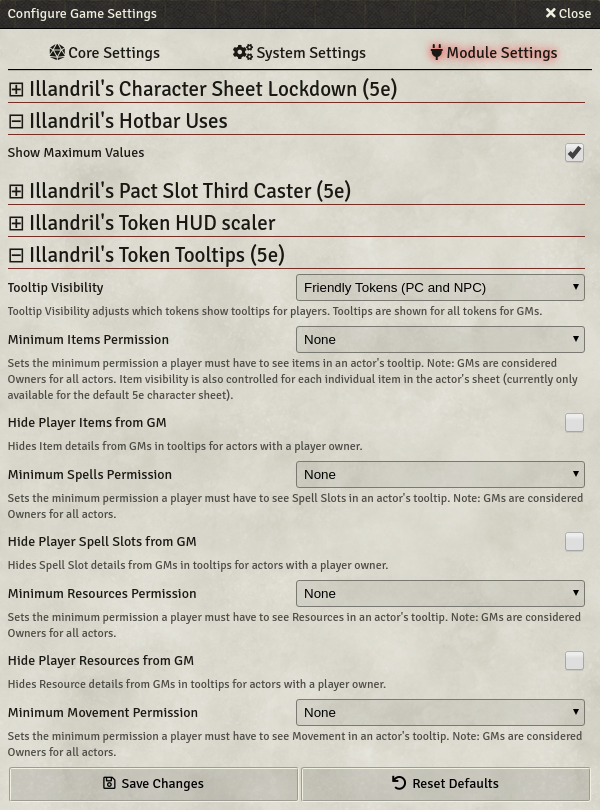
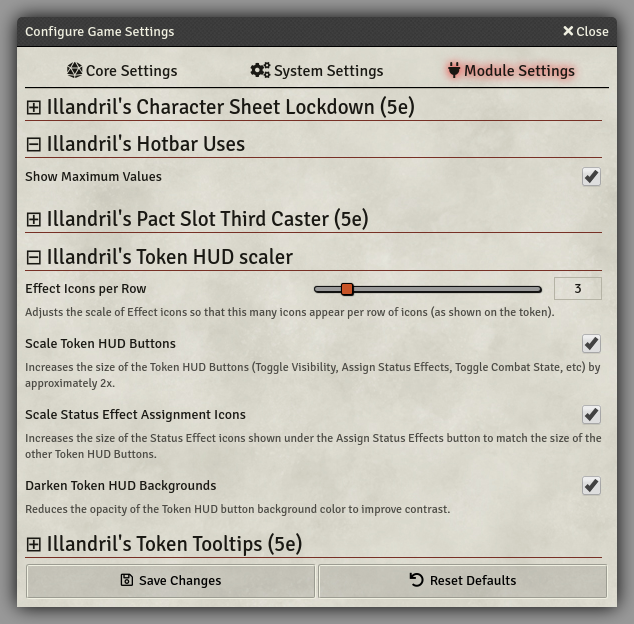
Updated screenshot and readme to include extra vertical space

diff --git a/README.md b/README.md
@@ -1,6 +1,6 @@
 # Illandril's Tidy Module Settings
 
-This is a module for Foundry Virtual Tabletop that adjusts the Module Settings to be a little more usable by making each module's settings group collapsible, and giving a little more room for settings labels.
+This is a module for Foundry Virtual Tabletop that adjusts the Module Settings to be a little more usable by making each module's settings group collapsible, giving a little more room for settings labels, and adding a little space between each setting.
 
 Note: This module is not compatible with the *Tidy UI - Game Settings* module. *Tidy UI - Game Settings* already provides equivalents to all of the functionality this module provides, and more. If you want the other features *Tidy UI - Game Settings* provides, use that module instead. If you want just the few features this module provides without any of the other changes *Tidy UI - Game Settings* includes, use this module only.
 
